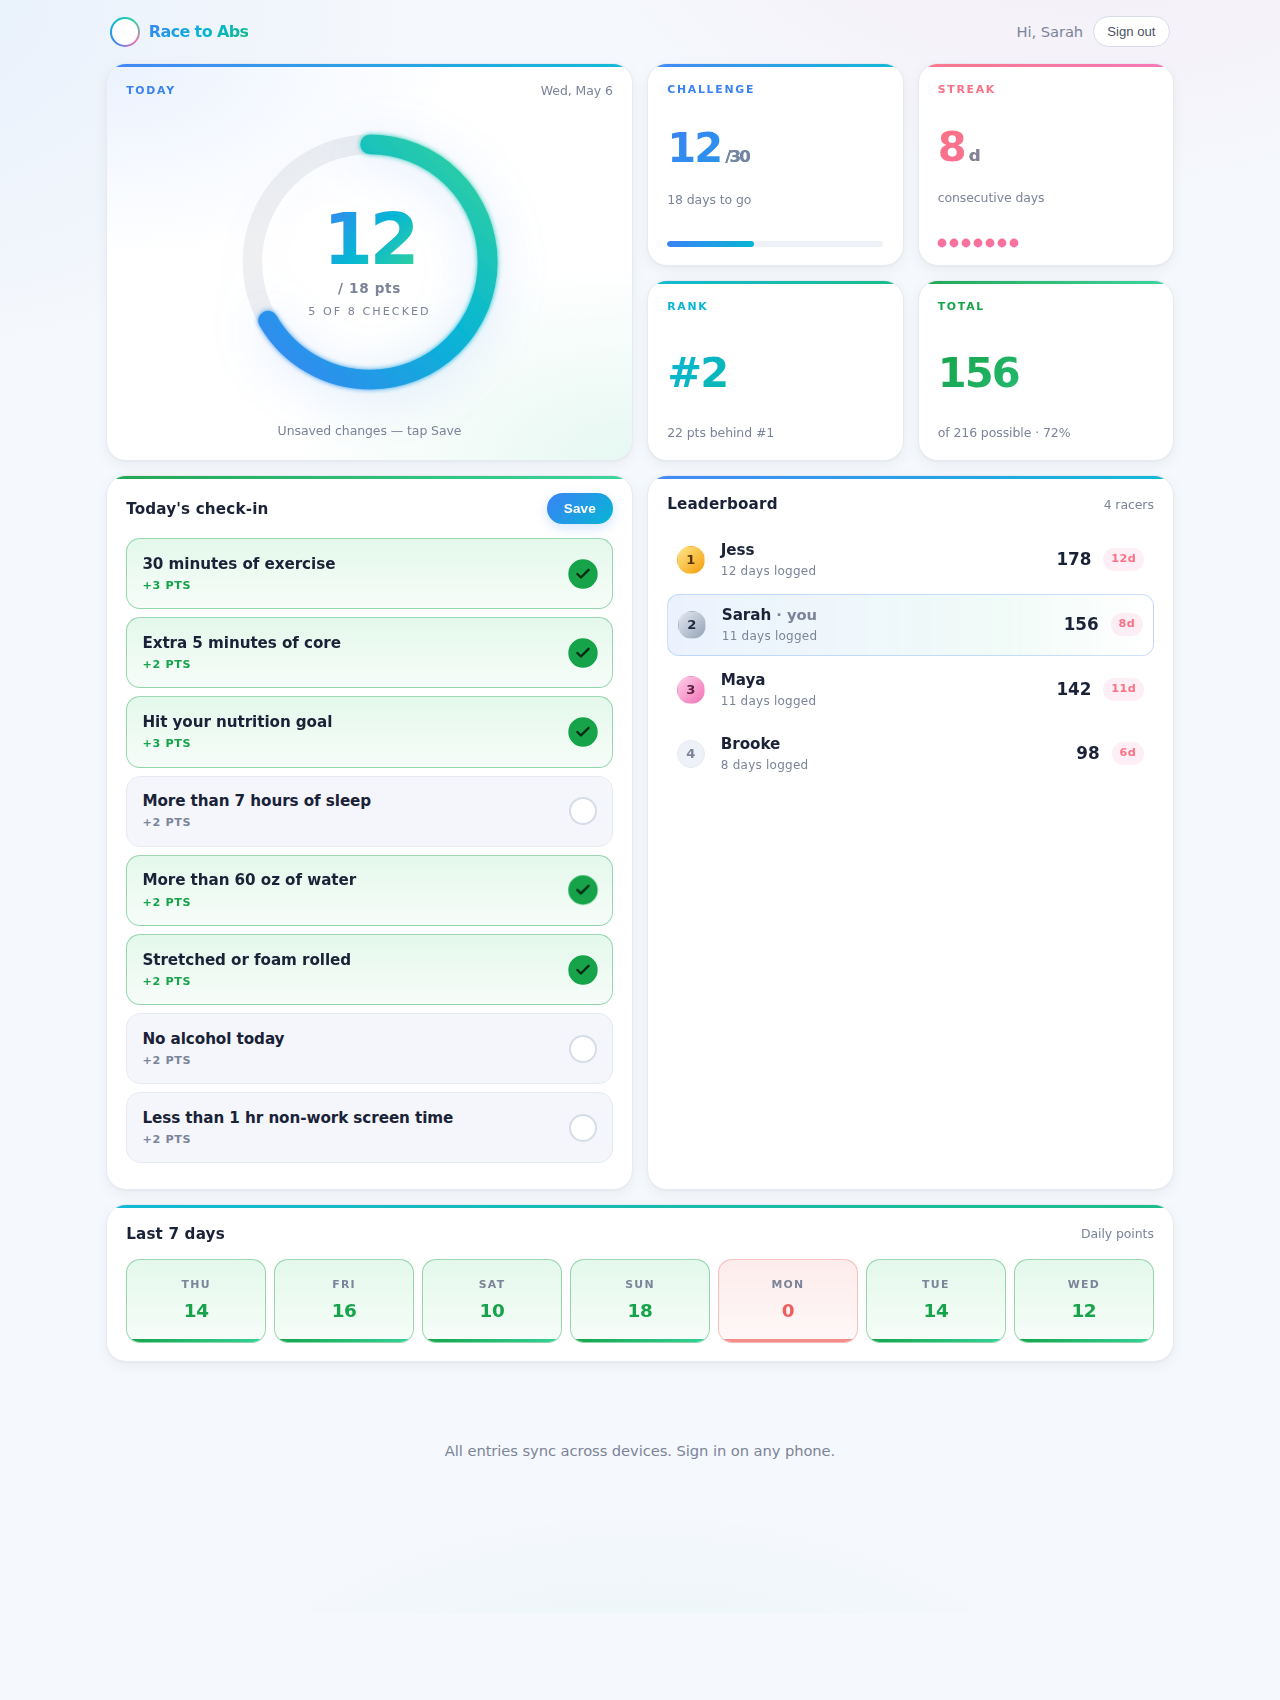
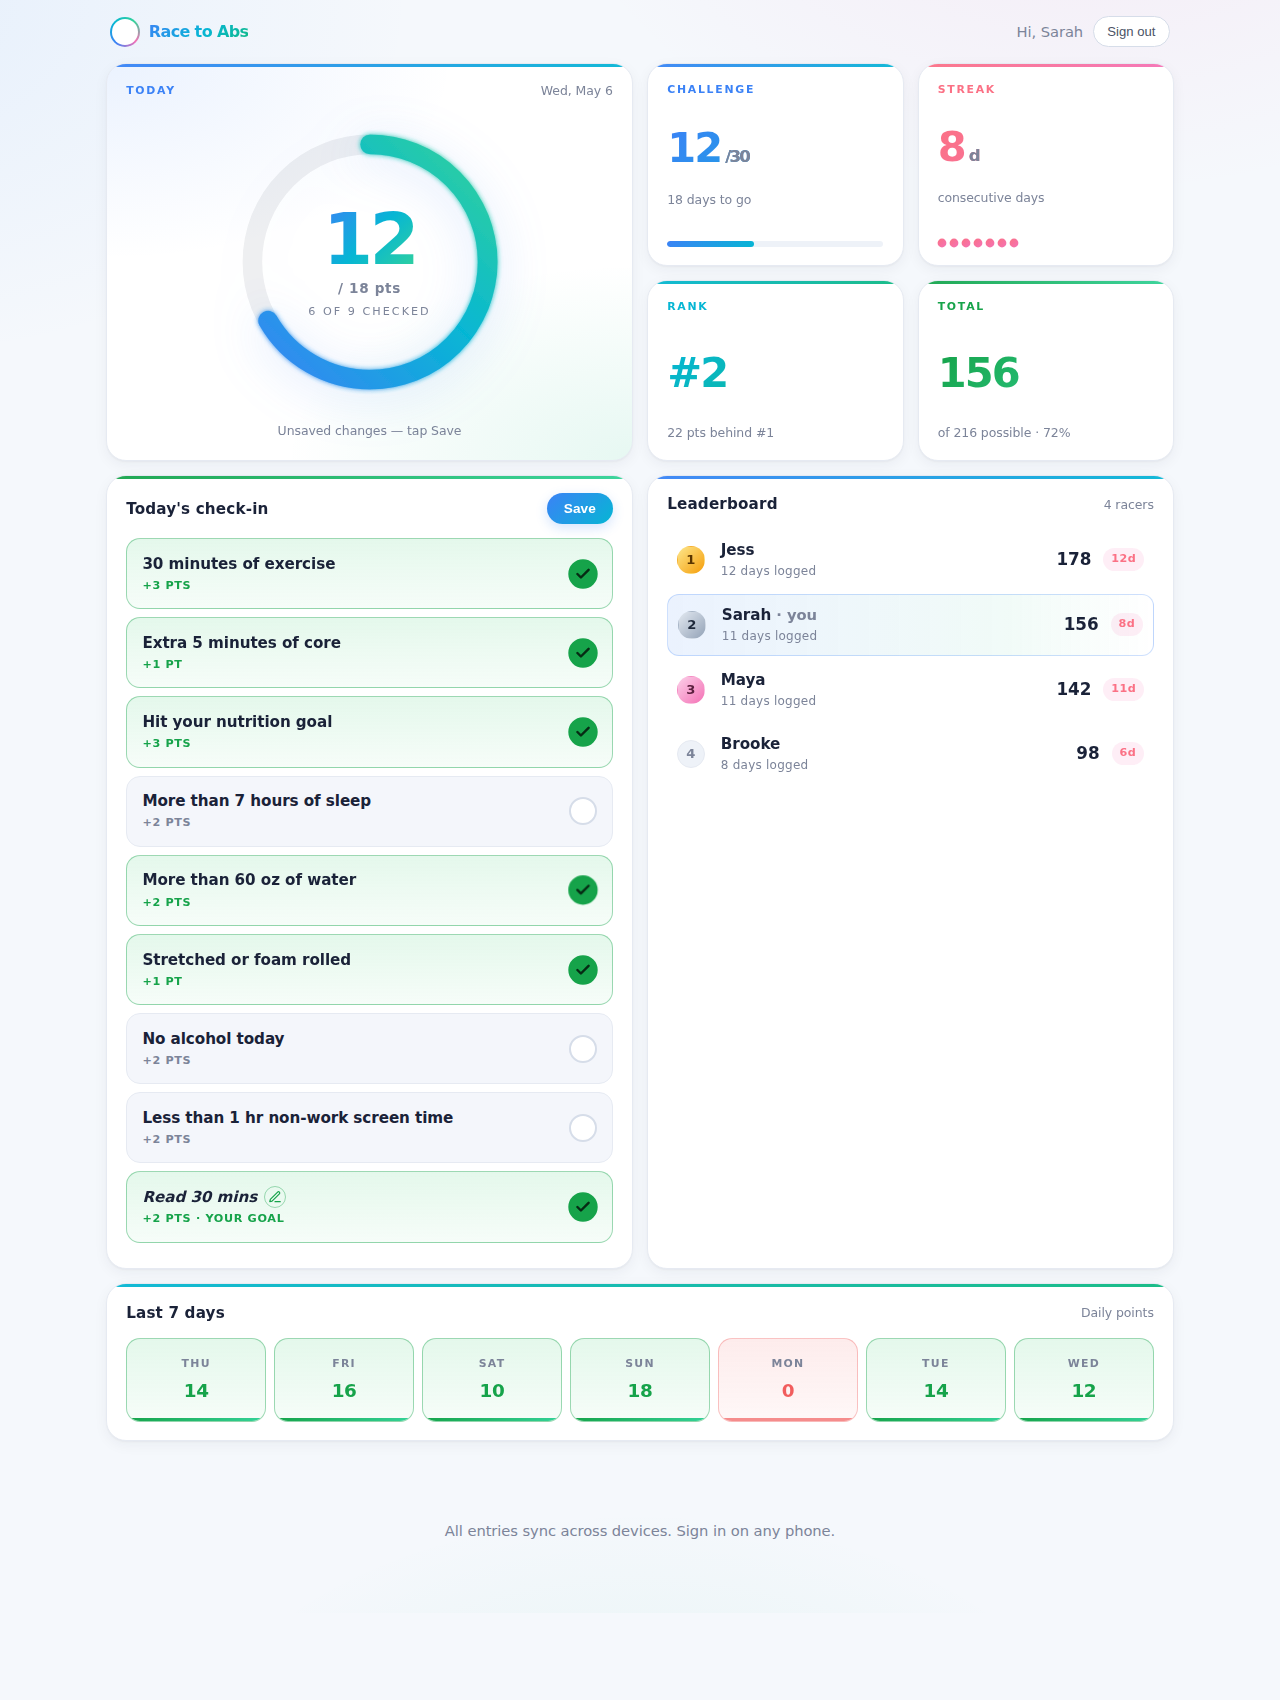
Rebalance points + add per-user custom goal
- Extra 5 min of core: 2 → 1 pt
- Stretching/foam rolling: 2 → 1 pt
- Add 'custom goal' check-in worth 2 pts; user picks their own goal
  (e.g. 'Read 30 mins') during onboarding and can edit it via a
  pencil icon on the row at any time
- Daily max stays at 18 (30-day max 540)

Schema: add custom_goal text column to profiles (idempotent migration)
Onboarding: require display name + custom goal
Profile save uses upsert so a partially-completed profile can resume
Profile load gates the dashboard on a non-empty custom_goal

Changed region(s): [[0.0938, 0.6859, 0.9062, 0.8418]]

diff --git a/app.js b/app.js
@@ -3,13 +3,14 @@
 
 const QUESTIONS = [
   { id: "exercise",  text: "30 minutes of exercise",                points: 3 },
-  { id: "core",      text: "Extra 5 minutes of core",               points: 2 },
+  { id: "core",      text: "Extra 5 minutes of core",               points: 1 },
   { id: "nutrition", text: "Hit your nutrition goal",               points: 3 },
   { id: "sleep",     text: "More than 7 hours of sleep",            points: 2 },
   { id: "water",     text: "More than 60 oz of water",              points: 2 },
-  { id: "stretch",   text: "Stretched or foam rolled",              points: 2 },
+  { id: "stretch",   text: "Stretched or foam rolled",              points: 1 },
   { id: "noAlcohol", text: "No alcohol today",                      points: 2 },
   { id: "screen",    text: "Less than 1 hr non-work screen time",   points: 2 },
+  { id: "custom",    text: "Your custom goal",                      points: 2, custom: true },
 ];
 
 const MAX_DAILY = QUESTIONS.reduce((s, q) => s + q.points, 0);
@@ -66,7 +67,10 @@ async function applySession(session) {
 
   // Load profile + shared data
   await loadProfile();
-  if (!state.profile) {
+  if (!state.profile || !state.profile.custom_goal || !state.profile.custom_goal.trim()) {
+    // Pre-fill if returning to finish onboarding
+    if (state.profile?.display_name) $("#display-name").value = state.profile.display_name;
+    if (state.profile?.custom_goal) $("#custom-goal").value = state.profile.custom_goal;
     show("view-onboarding");
     return;
   }
@@ -140,12 +144,13 @@ async function handleSignOut() {
 async function handleCreateProfile(e) {
   e.preventDefault();
   const name = $("#display-name").value.trim();
-  if (!name) return;
+  const customGoal = $("#custom-goal").value.trim();
+  if (!name || !customGoal) return;
   const status = $("#profile-status");
   status.textContent = "Saving…";
   const { error } = await state.client
     .from("profiles")
-    .insert({ id: state.user.id, display_name: name });
+    .upsert({ id: state.user.id, display_name: name, custom_goal: customGoal });
   if (error) {
     status.textContent = "Couldn't save: " + error.message;
     return;
@@ -154,6 +159,21 @@ async function handleCreateProfile(e) {
   await Promise.all([loadSettings(), loadAllData()]);
   renderApp();
   show("view-app");
+}
+
+async function updateCustomGoal(newGoal) {
+  const trimmed = (newGoal || "").trim();
+  if (!trimmed) return;
+  const { error } = await state.client
+    .from("profiles")
+    .update({ custom_goal: trimmed })
+    .eq("id", state.user.id);
+  if (error) {
+    flashStatus("Couldn't update goal: " + error.message);
+    return;
+  }
+  state.profile.custom_goal = trimmed;
+  renderCheckin();
 }
 
 // ─── Entry handlers ───────────────────────────────────────────────────────
@@ -372,16 +392,27 @@ function renderCheckin() {
   list.innerHTML = "";
   for (const q of QUESTIONS) {
     const checked = !!state.draft[q.id];
+    const isCustom = !!q.custom;
+    const labelText = isCustom
+      ? (state.profile?.custom_goal?.trim() || "Set a custom goal")
+      : q.text;
     const item = document.createElement("div");
-    item.className = "checkin-item" + (checked ? " checked" : "");
+    item.className = "checkin-item" + (checked ? " checked" : "") + (isCustom ? " custom" : "");
     item.dataset.qid = q.id;
     item.setAttribute("role", "button");
     item.setAttribute("tabindex", "0");
     item.setAttribute("aria-pressed", checked ? "true" : "false");
+    const editBtn = isCustom
+      ? `<button type="button" class="edit-goal" aria-label="Edit custom goal" title="Edit goal">
+           <svg viewBox="0 0 24 24" width="14" height="14" fill="none" stroke="currentColor" stroke-width="2" stroke-linecap="round" stroke-linejoin="round">
+             <path d="M12 20h9"/><path d="M16.5 3.5a2.121 2.121 0 0 1 3 3L7 19l-4 1 1-4 12.5-12.5z"/>
+           </svg>
+         </button>`
+      : "";
     item.innerHTML = `
       <div class="checkin-label">
-        <div class="checkin-q">${escapeHtml(q.text)}</div>
-        <div class="checkin-pts">+${q.points} pts</div>
+        <div class="checkin-q">${escapeHtml(labelText)}${editBtn}</div>
+        <div class="checkin-pts">+${q.points} pts${isCustom ? " · your goal" : ""}</div>
       </div>
       <div class="check-circle" aria-hidden="true">
         <svg viewBox="0 0 24 24" width="16" height="16" fill="none" stroke="#062b14" stroke-width="3.5" stroke-linecap="round" stroke-linejoin="round">
@@ -389,13 +420,24 @@ function renderCheckin() {
         </svg>
       </div>
     `;
-    item.addEventListener("click", () => toggleQuestion(q.id));
+    item.addEventListener("click", (e) => {
+      if (e.target.closest(".edit-goal")) return;
+      toggleQuestion(q.id);
+    });
     item.addEventListener("keydown", (e) => {
       if (e.key === " " || e.key === "Enter") {
         e.preventDefault();
         toggleQuestion(q.id);
       }
     });
+    if (isCustom) {
+      item.querySelector(".edit-goal")?.addEventListener("click", (e) => {
+        e.stopPropagation();
+        const current = state.profile?.custom_goal || "";
+        const next = window.prompt("Update your custom goal:", current);
+        if (next != null) updateCustomGoal(next);
+      });
+    }
     list.appendChild(item);
   }
 }

diff --git a/preview/dashboard.html b/preview/dashboard.html
@@ -61,7 +61,7 @@
             <div class="ring-text">
               <div class="ring-num">12</div>
               <div class="ring-unit">/ 18 pts</div>
-              <div class="ring-tag">5 of 8 checked</div>
+              <div class="ring-tag">6 of 9 checked</div>
             </div>
           </div>
           <div class="ring-foot">
@@ -119,7 +119,7 @@
             <div class="checkin-item checked">
               <div class="checkin-label">
                 <div class="checkin-q">Extra 5 minutes of core</div>
-                <div class="checkin-pts">+2 pts</div>
+                <div class="checkin-pts">+1 pt</div>
               </div>
               <div class="check-circle"><svg viewBox="0 0 24 24" width="16" height="16" fill="none" stroke="#062b14" stroke-width="3.5" stroke-linecap="round" stroke-linejoin="round"><polyline points="20 6 9 17 4 12"></polyline></svg></div>
             </div>
@@ -147,7 +147,7 @@
             <div class="checkin-item checked">
               <div class="checkin-label">
                 <div class="checkin-q">Stretched or foam rolled</div>
-                <div class="checkin-pts">+2 pts</div>
+                <div class="checkin-pts">+1 pt</div>
               </div>
               <div class="check-circle"><svg viewBox="0 0 24 24" width="16" height="16" fill="none" stroke="#062b14" stroke-width="3.5" stroke-linecap="round" stroke-linejoin="round"><polyline points="20 6 9 17 4 12"></polyline></svg></div>
             </div>
@@ -162,6 +162,13 @@
               <div class="checkin-label">
                 <div class="checkin-q">Less than 1 hr non-work screen time</div>
                 <div class="checkin-pts">+2 pts</div>
+              </div>
+              <div class="check-circle"><svg viewBox="0 0 24 24" width="16" height="16" fill="none" stroke="#062b14" stroke-width="3.5" stroke-linecap="round" stroke-linejoin="round"><polyline points="20 6 9 17 4 12"></polyline></svg></div>
+            </div>
+            <div class="checkin-item checked custom">
+              <div class="checkin-label">
+                <div class="checkin-q">Read 30 mins<button type="button" class="edit-goal" aria-label="Edit custom goal" title="Edit goal"><svg viewBox="0 0 24 24" width="14" height="14" fill="none" stroke="currentColor" stroke-width="2" stroke-linecap="round" stroke-linejoin="round"><path d="M12 20h9"/><path d="M16.5 3.5a2.121 2.121 0 0 1 3 3L7 19l-4 1 1-4 12.5-12.5z"/></svg></button></div>
+                <div class="checkin-pts">+2 pts · your goal</div>
               </div>
               <div class="check-circle"><svg viewBox="0 0 24 24" width="16" height="16" fill="none" stroke="#062b14" stroke-width="3.5" stroke-linecap="round" stroke-linejoin="round"><polyline points="20 6 9 17 4 12"></polyline></svg></div>
             </div>

diff --git a/index.html b/index.html
@@ -59,15 +59,20 @@
     </div>
   </div>
 
-  <!-- Onboarding (set display name) -->
+  <!-- Onboarding (set display name + custom goal) -->
   <div id="view-onboarding" class="view view-center hidden">
     <div class="card narrow">
       <h2>Create your profile</h2>
-      <p class="muted">This is the only thing you set up. No weight, no measurements — just your name on the board.</p>
+      <p class="muted">No weight, no measurements. Just your name on the board and one personal goal of your choosing.</p>
       <form id="profile-form">
         <div class="field">
           <label for="display-name">Display name</label>
           <input type="text" id="display-name" name="display-name" maxlength="40" required placeholder="Your name" />
+        </div>
+        <div class="field">
+          <label for="custom-goal">Your custom goal</label>
+          <input type="text" id="custom-goal" name="custom-goal" maxlength="60" required placeholder='e.g. "Read 30 mins" or "10 mins meditation"' />
+          <small class="muted small">Worth 2 pts a day. You can change it anytime.</small>
         </div>
         <button type="submit" class="btn-primary">Enter the race</button>
         <p id="profile-status" class="muted"></p>

diff --git a/styles.css b/styles.css
@@ -610,7 +610,35 @@ input::placeholder { color: var(--muted-2); }
   flex-direction: column;
   gap: 0.15rem;
 }
-.checkin-q { font-weight: 600; font-size: 0.95rem; color: var(--text); }
+.checkin-q {
+  font-weight: 600;
+  font-size: 0.95rem;
+  color: var(--text);
+  display: inline-flex;
+  align-items: center;
+  gap: 0.4rem;
+}
+.edit-goal {
+  background: transparent;
+  border: 1px solid var(--border-2);
+  color: var(--muted);
+  width: 22px;
+  height: 22px;
+  border-radius: 999px;
+  display: inline-grid;
+  place-items: center;
+  cursor: pointer;
+  padding: 0;
+  transition: color 0.15s ease, border-color 0.15s ease, background 0.15s ease;
+  flex-shrink: 0;
+}
+.edit-goal:hover {
+  color: var(--blue-1);
+  border-color: var(--blue-1);
+  background: rgba(59, 130, 246, 0.08);
+}
+.checkin-item.checked .edit-goal { color: var(--good); border-color: rgba(22, 163, 74, 0.4); }
+.checkin-item.custom .checkin-q { font-style: italic; }
 .checkin-pts {
   font-size: 0.7rem;
   color: var(--muted);

diff --git a/README.md b/README.md
@@ -67,15 +67,18 @@ python3 -m http.server 8000
 | Item | Points |
 |---|---|
 | 30 minutes of exercise | 3 |
-| Extra 5 minutes of core | 2 |
+| Extra 5 minutes of core | 1 |
 | Hit your nutrition goal | 3 |
 | More than 7 hours of sleep | 2 |
 | More than 60 oz of water | 2 |
-| Stretched or foam rolled | 2 |
+| Stretched or foam rolled | 1 |
 | No alcohol today | 2 |
 | Less than 1 hr non-work screen time | 2 |
+| Your custom goal (set per-user, e.g. "Read 30 mins") | 2 |
 | **Daily max** | **18** |
 | **30-day max** | **540** |
+
+Each user picks their own custom goal during onboarding and can change it anytime via the pencil icon on that row in the daily check-in.
 
 To rebalance, edit the `QUESTIONS` array at the top of `app.js`.
 
